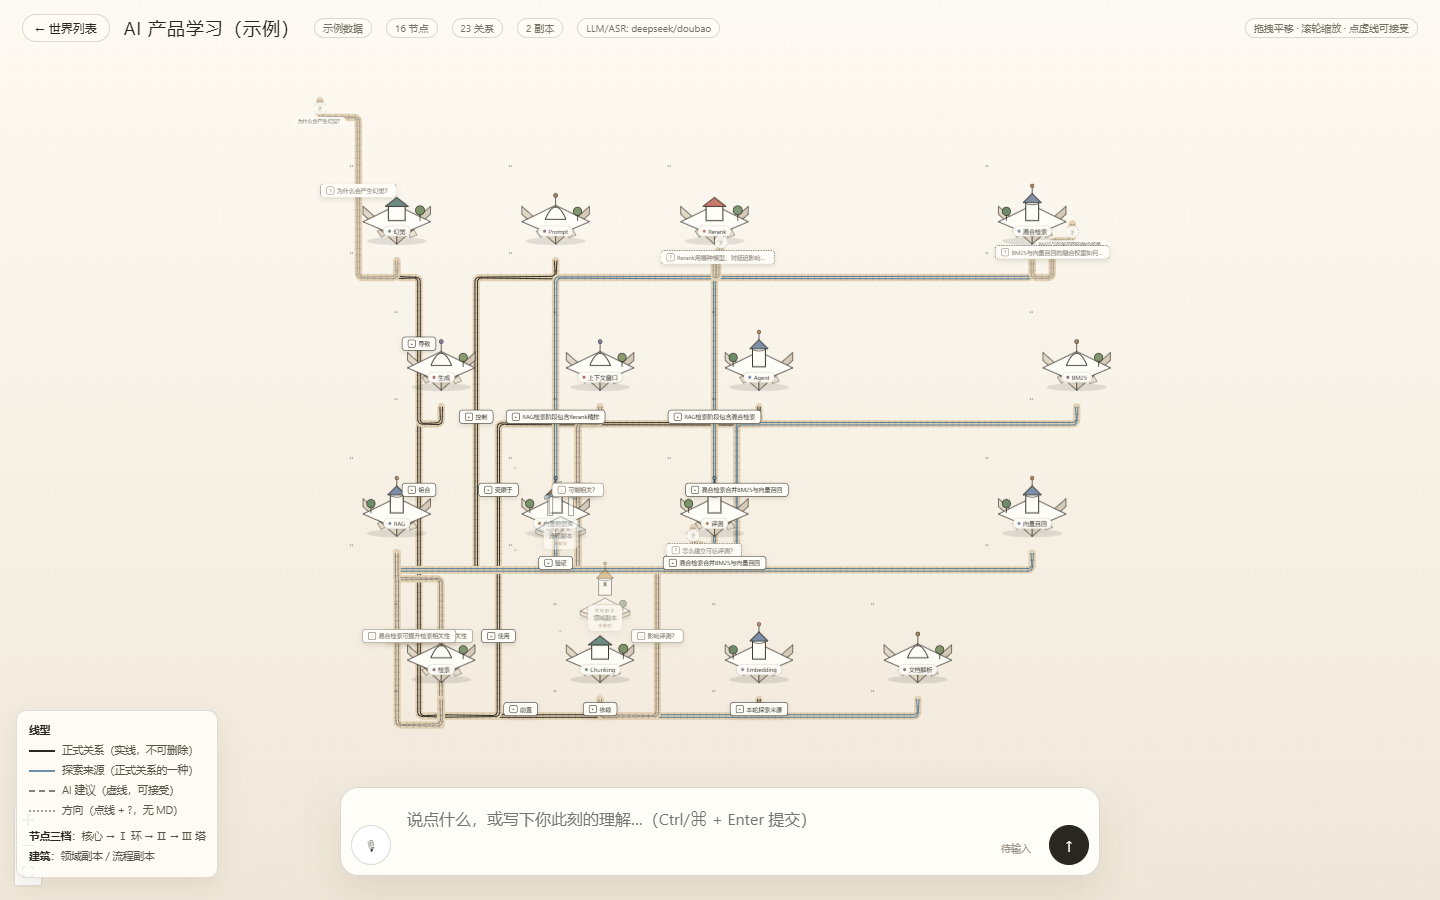
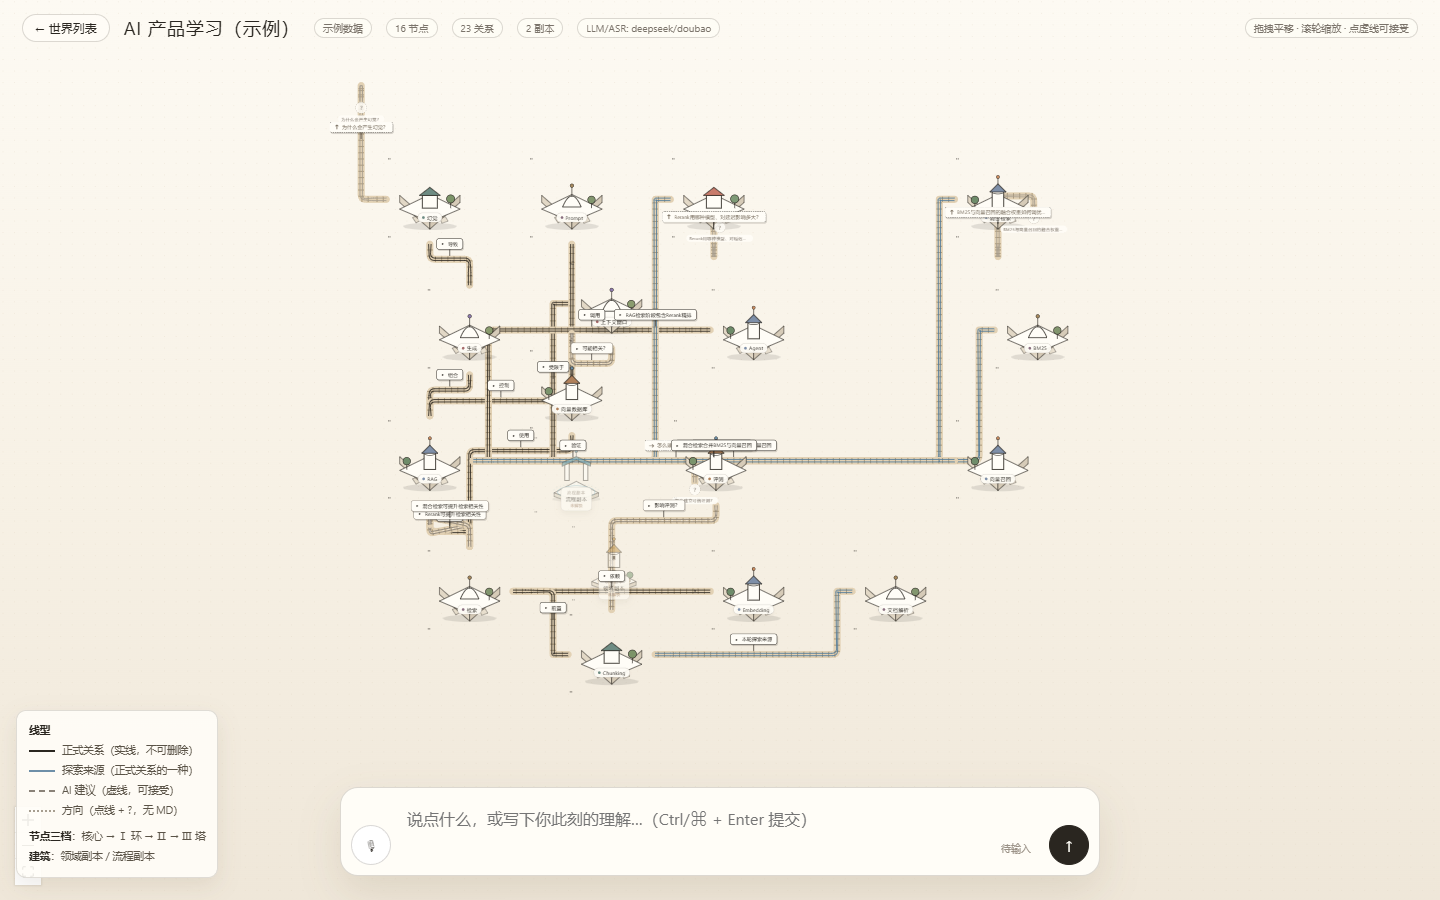
fix(rails): 轨道四向出线（按最近尖端），节点/建筑自动去重叠，路牌改为带指向箭头的立牌
- 不再固定从底部绕行：按目标相对位置选择左/右/上/下尖端出线，正交折线接到目标尖端
- 渲染循环里做 8 轮节点去重叠（节点/建筑包围盒推开），视觉上不再压在一起
- 路牌改成「牌面 + 立杆」：方向路牌带旋转箭头指向走向，点击打开问题/MD
- 关系路牌显示关系名，虚线/正式样式区分

Changed region(s): [[0.2188, 0.1867, 0.7812, 0.8089], [0.2188, 0.1244, 0.2812, 0.1556]]

diff --git a/web/src/components/RailEdge.tsx b/web/src/components/RailEdge.tsx
@@ -1,4 +1,4 @@
-import { EdgeLabelRenderer, type EdgeProps } from "@xyflow/react";
+import { EdgeLabelRenderer, type EdgeProps } from "@xyflow/react";
 
 const COLORS: Record<string, string> = {
   formal: "#2a2620",
@@ -7,22 +7,30 @@ const COLORS: Record<string, string> = {
   direction: "#a79e90",
 };
 
-/** 折线铁路：从节点底部尖端出发，落地、横向、再抬起到目标底部尖端 */
-function railPoints(sx: number, sy: number, tx: number, ty: number, bend: number) {
-  const drop = 34 + Math.abs(bend) * 18;
-  const mid = sx + (tx - sx) / 2 + bend * 44;
-  return [
-    { x: sx, y: sy },
-    { x: sx, y: sy + drop },
-    { x: mid, y: sy + drop },
-    { x: mid, y: ty + drop },
-    { x: tx, y: ty + drop },
-    { x: tx, y: ty },
-  ];
+type Pt = { x: number; y: number };
+
+function normalOf(pos?: string): Pt {
+  if (pos === "top") return { x: 0, y: -1 };
+  if (pos === "right") return { x: 1, y: 0 };
+  if (pos === "bottom") return { x: 0, y: 1 };
+  if (pos === "left") return { x: -1, y: 0 };
+  return { x: 0, y: 1 };
 }
 
-function toPath(points: { x: number; y: number }[], r = 10) {
-  // 圆角折线
+/** 从岛的尖端沿法线出去，再用正交折线接到目标尖端 */
+function route(s: Pt, t: Pt, n1: Pt, n2: Pt, bend: number): Pt[] {
+  const d = 34 + Math.abs(bend) * 14;
+  const p1 = { x: s.x + n1.x * d, y: s.y + n1.y * d };
+  const p3 = { x: t.x + n2.x * d, y: t.y + n2.y * d };
+  if (n1.x !== 0) {
+    const mx = p3.x + bend * 18;
+    return [s, p1, { x: mx, y: p1.y }, { x: mx, y: p3.y }, p3, t];
+  }
+  return [s, p1, { x: p1.x, y: p3.y + bend * 18 }, p3, t];
+}
+
+function toPath(points: Pt[], r = 12) {
+  if (points.length < 2) return "";
   let d = `M ${points[0].x} ${points[0].y}`;
   for (let i = 1; i < points.length - 1; i++) {
     const p = points[i];
@@ -42,7 +50,7 @@ function toPath(points: { x: number; y: number }[], r = 10) {
   return d;
 }
 
-function offsetLine(points: { x: number; y: number }[], off: number) {
+function offsetLine(points: Pt[], off: number) {
   return points.map((p, i) => {
     const prev = points[Math.max(0, i - 1)];
     const next = points[Math.min(points.length - 1, i + 1)];
@@ -53,8 +61,8 @@ function offsetLine(points: { x: number; y: number }[], off: number) {
   });
 }
 
-function sampleAlong(points: { x: number; y: number }[], step: number) {
-  const out: { x: number; y: number; nx: number; ny: number }[] = [];
+function sleepers(points: Pt[], step: number) {
+  const out: (Pt & { nx: number; ny: number })[] = [];
   for (let i = 0; i < points.length - 1; i++) {
     const a = points[i];
     const b = points[i + 1];
@@ -72,62 +80,98 @@ function sampleAlong(points: { x: number; y: number }[], step: number) {
 }
 
 export default function RailEdge(props: EdgeProps) {
-  const { id, sourceX, sourceY, targetX, targetY, data } = props;
+  const {
+    id,
+    sourceX,
+    sourceY,
+    targetX,
+    targetY,
+    sourcePosition,
+    targetPosition,
+    data,
+  } = props;
   const d = (data ?? {}) as any;
   const kind: string = d.kind ?? "formal";
   const color = COLORS[kind] ?? COLORS.formal;
   const bend: number = d.bend ?? 0;
+  const isDir = kind === "direction";
 
-  const pts = railPoints(sourceX, sourceY, targetX, targetY, bend);
+  const pts = route(
+    { x: sourceX, y: sourceY },
+    { x: targetX, y: targetY },
+    normalOf(sourcePosition),
+    normalOf(targetPosition),
+    bend,
+  );
   const path = toPath(pts);
-  const left = toPath(offsetLine(pts, 2.6));
-  const right = toPath(offsetLine(pts, -2.6));
-  const sleepers = sampleAlong(pts, 13);
+  const left = toPath(offsetLine(pts, 2.8));
+  const right = toPath(offsetLine(pts, -2.8));
+  const ties = sleepers(pts, 14);
 
-  const signX = (sourceX + targetX) / 2 + bend * 20;
-  const signY = (sourceY + targetY) / 2 + 20;
-
-  const isDirection = kind === "direction";
-  const label = isDirection ? d.question || "下一步方向" : d.label || "关系";
+  // 路牌放到最长的一段上
+  let best = { x: 0, y: 0, len: 0, angle: 0 };
+  for (let i = 0; i < pts.length - 1; i++) {
+    const a = pts[i];
+    const b = pts[i + 1];
+    const len = Math.hypot(b.x - a.x, b.y - a.y);
+    if (len > best.len) {
+      best = {
+        x: (a.x + b.x) / 2,
+        y: (a.y + b.y) / 2,
+        len,
+        angle: (Math.atan2(b.y - a.y, b.x - a.x) * 180) / Math.PI,
+      };
+    }
+  }
+  const label = isDir ? d.question || "下一步方向" : d.label || "关系";
 
   return (
     <>
-      {/* 道砟 + 枕木 + 双轨 */}
-      <path d={path} fill="none" stroke="#e2d1b4" strokeWidth={15} strokeLinecap="round" strokeLinejoin="round" />
-      {sleepers.map((s, i) => (
+      <path d={path} fill="none" stroke="#e2d1b4" strokeWidth={16} strokeLinecap="round" strokeLinejoin="round" />
+      {ties.map((s, i) => (
         <line
           key={i}
-          x1={s.x + s.nx * 5.5}
-          y1={s.y + s.ny * 5.5}
-          x2={s.x - s.nx * 5.5}
-          y2={s.y - s.ny * 5.5}
-          stroke="#b9a98a"
-          strokeWidth={1.4}
+          x1={s.x + s.nx * 6}
+          y1={s.y + s.ny * 6}
+          x2={s.x - s.nx * 6}
+          y2={s.y - s.ny * 6}
+          stroke="#9c8a6a"
+          strokeWidth={1.7}
         />
       ))}
       <path d={left} fill="none" stroke={color} strokeWidth={1.9} />
       <path d={right} fill="none" stroke={color} strokeWidth={1.9} />
       {kind === "suggest" && (
-        <path d={path} fill="none" stroke="#fffdf7" strokeWidth={1} strokeDasharray="4 6" opacity={0.8} />
+        <path d={path} fill="none" stroke="#fffdf7" strokeWidth={1.1} strokeDasharray="4 7" opacity={0.85} />
       )}
 
       <EdgeLabelRenderer>
-        <button
-          className={"rail-sign" + (isDirection ? " dir" : "") + (kind === "suggest" ? " suggest" : "")}
+        <div
+          className={"rail-post" + (isDir ? " dir" : "") + (kind === "suggest" ? " suggest" : "")}
           style={{
             position: "absolute",
-            transform: `translate(-50%,-50%) translate(${signX}px,${signY}px)`,
+            transform: `translate(-50%,-100%) translate(${best.x}px,${best.y - 8}px)`,
             pointerEvents: "all",
           }}
-          title={isDirection ? "方向提示：点击查看问题" : label}
-          onClick={(e) => {
-            e.stopPropagation();
-            d.onSign?.(id);
-          }}
         >
-          <span className="rail-sign-icon">{isDirection ? "?" : kind === "suggest" ? "◌" : "▸"}</span>
-          <span className="rail-sign-text">{label}</span>
-        </button>
+          <button
+            className="rail-board"
+            title={isDir ? "方向路牌：点击查看问题" : label}
+            onClick={(e) => {
+              e.stopPropagation();
+              d.onSign?.(id);
+            }}
+          >
+            <span
+              className="rail-board-arrow"
+              style={{ transform: `rotate(${isDir ? best.angle : 0}deg)` }}
+            >
+              {isDir ? "➜" : "▸"}
+            </span>
+            <span className="rail-board-text">{label}</span>
+          </button>
+          <span className="rail-stem" />
+        </div>
       </EdgeLabelRenderer>
     </>
   );

diff --git a/web/src/components/World.tsx b/web/src/components/World.tsx
@@ -84,6 +84,30 @@ export default function World() {
           selectable: false,
         };
       });
+    // 去重叠：WFC 之后仍有视觉挤压，这里在屏幕空间把节点/建筑互相推开
+    const solid = [...base, ...bs];
+    for (let iter = 0; iter < 8; iter++) {
+      for (let i = 0; i < solid.length; i++) {
+        for (let j = i + 1; j < solid.length; j++) {
+          const a = solid[i] as any;
+          const b = solid[j] as any;
+          const ddx = b.position.x - a.position.x;
+          const ddy = b.position.y - a.position.y;
+          const minX = 230;
+          const minY = 200;
+          if (Math.abs(ddx) >= minX || Math.abs(ddy) >= minY) continue;
+          const pushX = (minX - Math.abs(ddx)) * (ddx >= 0 ? 1 : -1) * 0.5;
+          const pushY = (minY - Math.abs(ddy)) * (ddy >= 0 ? 1 : -1) * 0.5;
+          if (Math.abs(ddx) / minX > Math.abs(ddy) / minY) {
+            a.position.x -= pushX;
+            b.position.x += pushX;
+          } else {
+            a.position.y -= pushY;
+            b.position.y += pushY;
+          }
+        }
+      }
+    }
     return [...base, ...bs, ...dirs];
   }, [nodes, buildings, edges]);
 
@@ -112,9 +136,14 @@ export default function World() {
         if (!a || !b) return null;
         const dx = b.x - a.x;
         const dy = b.y - a.y;
-        // 铁路统一从岛底尖端出发、落到下方再走横向
-        const sourceHandle = "b";
-        const targetHandle = isDir ? undefined : "b";
+        // 铁路从靠近目标的那个"尖尖"出线，四个方向都走
+        const horiz = Math.abs(dx) >= Math.abs(dy);
+        const sourceHandle = horiz ? (dx >= 0 ? "r" : "l") : (dy >= 0 ? "b" : "t");
+        const targetHandle = isDir
+          ? undefined
+          : horiz
+            ? (dx >= 0 ? "l" : "r")
+            : (dy >= 0 ? "t" : "b");
         const key = isDir ? "d:" + e.id : [e.src, e.dst].sort().join("|");
         const idx = counts[key] ?? 0;
         counts[key] = idx + 1;

diff --git a/web/src/styles.css b/web/src/styles.css
@@ -234,3 +234,17 @@ input, textarea { font: inherit; color: inherit; }
 .rail-sign-text { overflow: hidden; text-overflow: ellipsis; white-space: nowrap; }
 .rail-sign.dir { border-style: dashed; color: #8a8278; }
 .rail-sign.suggest { border-color: #8a8278; color: #6e6558; }
+/* ---------- 指路牌（立牌 + 指向箭头） ---------- */
+.rail-post { display: flex; flex-direction: column; align-items: center; pointer-events: all; }
+.rail-board {
+  display: inline-flex; align-items: center; gap: 6px; max-width: 240px;
+  background: #fffdf7; border: 1.5px solid #2a2620; border-radius: 6px;
+  padding: 4px 10px 4px 8px; font-size: 11.5px; color: #2a2620; cursor: pointer;
+  box-shadow: 2px 3px 0 rgba(42,38,32,.18); white-space: nowrap;
+}
+.rail-board:hover { background: #2a2620; color: #fffdf7; }
+.rail-board-arrow { display: inline-block; font-size: 13px; line-height: 1; transform-origin: 50% 50%; }
+.rail-board-text { overflow: hidden; text-overflow: ellipsis; }
+.rail-stem { width: 2px; height: 14px; background: #2a2620; opacity: .75; }
+.rail-post.dir .rail-board { border-style: dashed; color: #7a6f60; }
+.rail-post.suggest .rail-board { border-color: #8a8278; }
